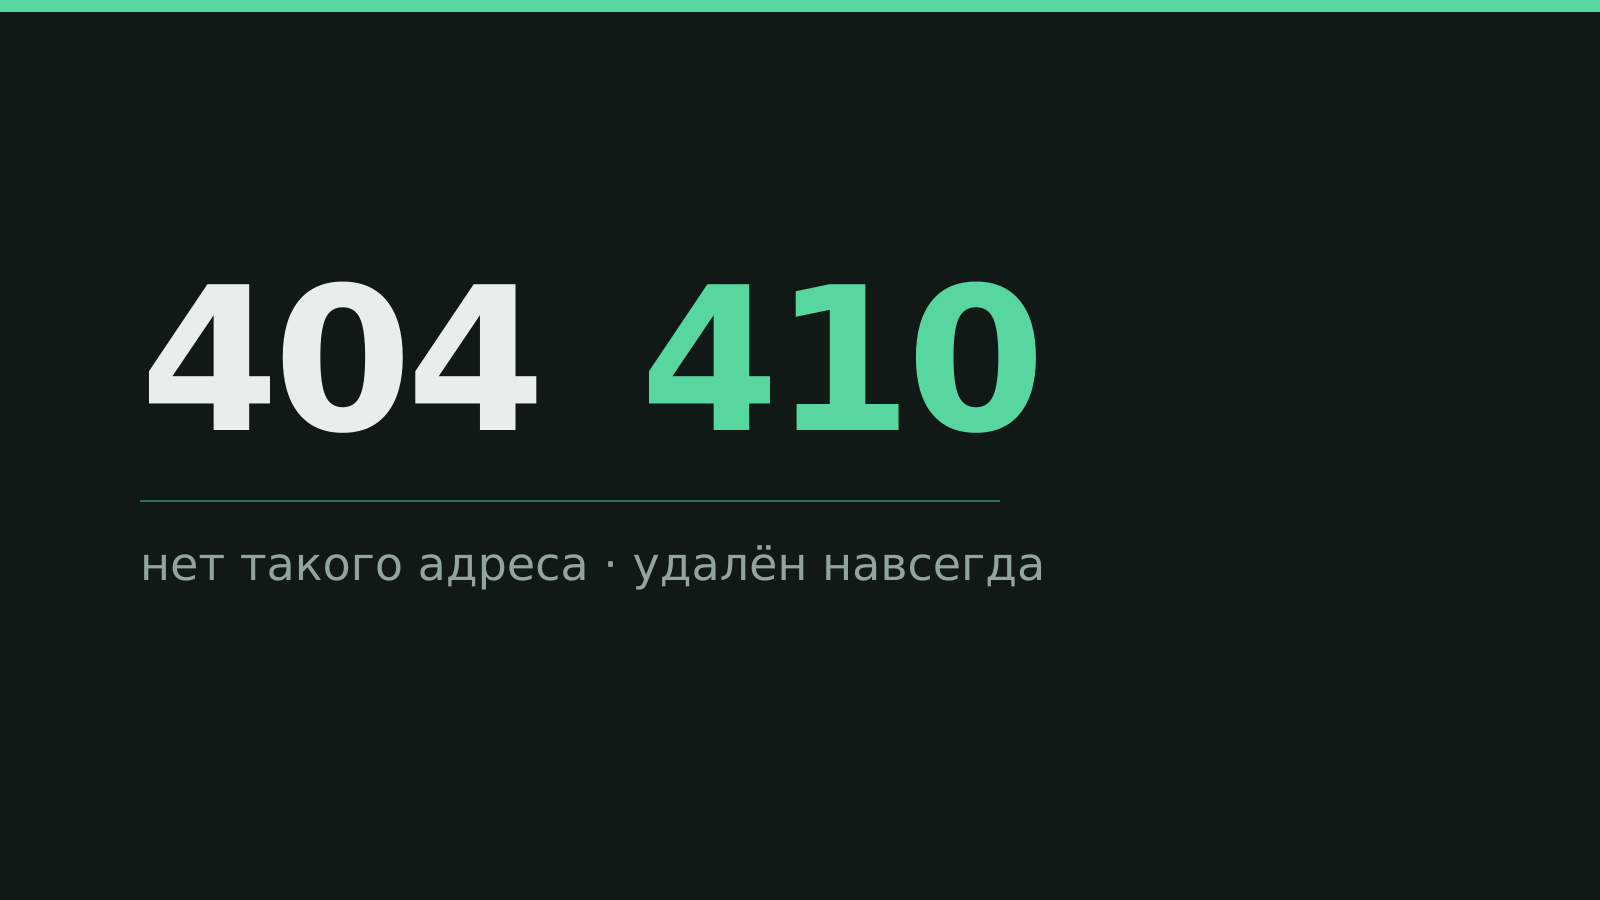
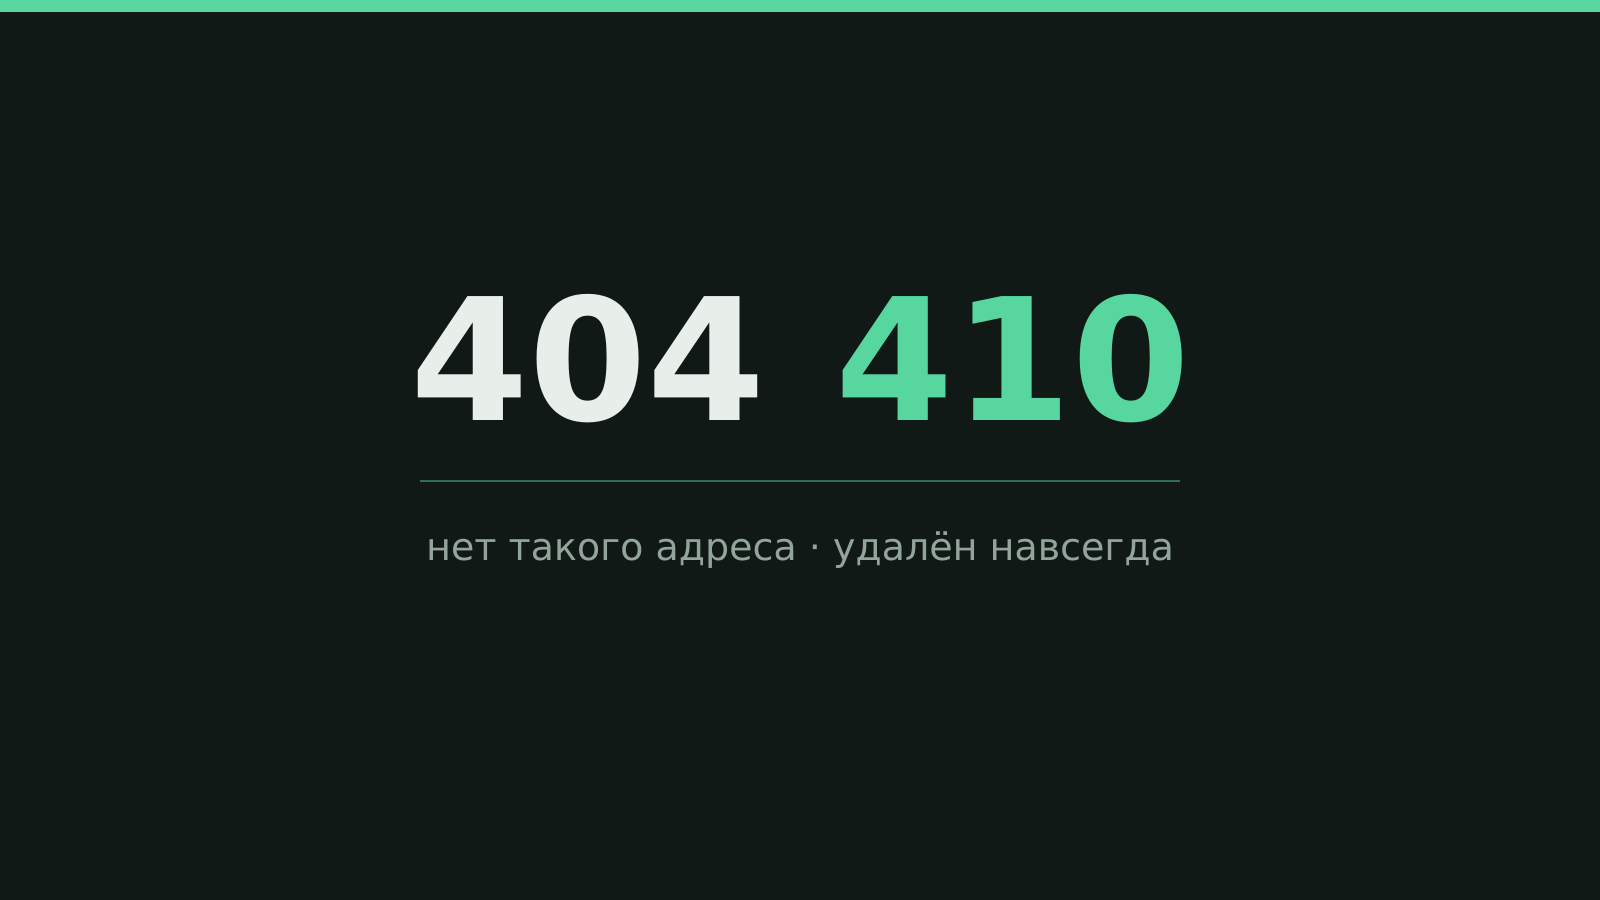
fix(content): кадры обложки — по центру, ключевое — в безопасной зоне
Детектор заметности (attention sharp) резал надписи демо-обложек в
кадре 1:1. Фокус задаёт автор (норма базы, ai-media 06/03 §3.1):
кадры режутся по центру, а ключевое мастера — в безопасной зоне,
общей для всех кадров: центральный квадрат 900×900 без полос по 30 px
сверху и снизу (rule content-invariants, /content). Демо-обложки
перерисованы по зоне — превью, 16:9, 4:3 и 1:1 у всех трёх целые.

diff --git a/src/pages/_blog/images.ts b/src/pages/_blog/images.ts
@@ -7,9 +7,9 @@ import type { OgImage } from '@/shared/seo'
 // берут и on-demand маршруты — их серверный бандл конвейер нёс бы зря (преобразований на запросе нет).
 // Картинки для превью ссылок и выдачи — кадры мастера записи в JPEG: его читает любая соцсеть,
 // мессенджер и поисковик. Превью — размера карточки сайта (1200×630), кадры разметки статьи —
-// пропорции, которые просит выдача Google (16:9, 4:3, 1:1). Кадр — обрезка без растяжения (мастер
-// обложки 1600×900 крупнее каждого) по самой заметной области мастера (`attention` sharp), а не по
-// центру: узкий кадр берёт предмет, а не середину картинки.
+// пропорции, которые просит выдача Google (16:9, 4:3, 1:1). Кадр — обрезка по центру без растяжения
+// (мастер обложки 1600×900 крупнее каждого): каждый кадр берёт безопасную зону мастера, где автор держит
+// ключевое (rule content-invariants). Фокус задаёт автор, а не детектор заметности: тот режет надписи.
 const ARTICLE_FRAMES = [
   { width: 1200, height: 675 },
   { width: 1200, height: 900 },
@@ -22,7 +22,6 @@ async function frame(master: ImageMetadata, width: number, height: number) {
     width,
     height,
     fit: 'cover',
-    position: 'attention',
     format: 'jpg',
   })
   return { path: src, width, height }

diff --git a/src/pages/_blog/images.server.test.ts b/src/pages/_blog/images.server.test.ts
@@ -24,6 +24,13 @@ describe('картинки превью и разметки', () => {
     })
   })
 
+  // Безопасная зона мастера — его центр: кадр выбирает не детектор заметности, а правило автора.
+  it('каждый кадр — по центру мастера', async () => {
+    const paths = [(await ogImageOf(master, 'Обложка')).path]
+    for (const { path } of await articleImagesOf(master)) paths.push(path)
+    for (const path of paths) expect(requestOf(path)).not.toHaveProperty('position')
+  })
+
   it('кадры разметки статьи — 16:9, 4:3 и 1:1 из того же мастера, JPEG, без растяжения', async () => {
     const frames = await articleImagesOf(master)
     expect(frames.map(({ width, height }) => width / height)).toEqual([16 / 9, 4 / 3, 1])

diff --git a/.claude/plans/adopt-design-system.md b/.claude/plans/adopt-design-system.md
@@ -221,15 +221,16 @@ blocked-by: —
   strategy). LCP первого экрана — не ролик (SG-PERF-16). Стили картинок Astro сняты: картинку ведут стили Tailwind,
   миниатюре — `densities={[2]}`; их возврат краснит тест карточки и бюджет CSS.
 - Обложки (S11): мастер 1600×900, фото — JPEG, плоская графика — PNG (демо); фолбэк `<Picture>` — WebP, AVIF —
-  источником. `seo:check` различает законное по файлам (N5): источник `media` без размеров — ошибка, только когда
-  пропорция его файла не та, что у `<img>` (вариант тёмной темы законен); фолбэк — ошибка, только PNG-производная
-  мастера (файл как есть, плоская схема, — выбор автора); ролик по кнопке — `preload` `none` или `metadata`. Превью и кадры разметки — `getImage` в JPEG с обрезкой по `attention` sharp (по центру квадрат резал
-  надписи; облик кадра машина не держит); превью — размера `OG_DEFAULT_IMAGE`. `seo:check` читает файлы sharp: превью
-  — `OG_IMAGE` политики (норма базы), кадры — мастер превью по имени производной Astro и пропорции. `sizes` —
-  `SLOT_SIZES` контейнера литералами ролей (`var()` в `sizes` не читается), их сверяет тест контейнера. Конвейер
-  картинок (`getImage`, обёртка sharp) серверному бандлу не нужен (N3): кадры — модуль сборки `pages/_blog/images.ts`
-  вне барреля `shared/seo`, `<Font>` — файлом `astro/components/Font.astro` (модуль `astro:assets` тянет конвейер,
-  оболочку рендерят on-demand страницы); `dist/server` 927 → 840 кБ, бюджет size-limit 925 кБ без сжатия.
+  источником; `sizes` — `SLOT_SIZES` контейнера литералами ролей (`var()` в `sizes` не читается). Превью
+  (`OG_DEFAULT_IMAGE`) и кадры разметки — `getImage` в JPEG с обрезкой по центру: ключевое — в безопасной зоне мастера
+  (центральный квадрат 900×900 без полос по 30 px; rule `content-invariants`, `/content`), фокус задаёт автор, а не
+  детектор заметности (норма базы 06/03 §3.1); демо-обложки — по зоне (N6, кадры до и после — `M/p4d/fix/shots/`).
+  `seo:check` читает файлы sharp: превью — `OG_IMAGE` политики, кадры — мастер превью по имени производной Astro и
+  пропорции; источник `media` без размеров — ошибка, только когда пропорция его файла не та, что у `<img>`; фолбэк —
+  ошибка, только PNG-производная мастера; ролик по кнопке — `preload` `none` или `metadata` (N5). Конвейер картинок
+  серверному бандлу не нужен (N3): кадры — модуль сборки `pages/_blog/images.ts`, `<Font>` — файлом
+  `astro/components/Font.astro` (модуль `astro:assets` тянет конвейер, а оболочку рендерят on-demand страницы);
+  `dist/server` 927 → 840 кБ, бюджет size-limit — 925 кБ без сжатия.
 - CSP одна по построению: политика глобальна, стили страниц — файлами, хеши `<Font>` Astro кладёт во все записи —
   у всех страниц один набор хешей и `font-src 'self'`; `docker/*` не правится. data:-адрес ресурса CSP не пропускает
   (в директивах загрузки только свой сайт): `seo:check` краснит любой — в атрибутах, `style` и CSS сборки (N2).
@@ -268,7 +269,8 @@ blocked-by: —
 N1–N11); замечания закрываются коммитами `fix(...)`, ход и пробы — `M/p4d/fix/` (`notes.md`). Закрыты: B1 — ролик
 петли один на все окна; N1 — «меньше» обрывает загрузку петли, петля ленивая; N2 — data:-адрес краснит `seo:check`;
 N3 — серверный бандл без конвейера картинок; N4, N7, N8 — `sizes` у источников `ArtPicture`, бюджет острова с обеих
-сторон, шрифт только WOFF2; N5 — `seo:check` пропускает законный сырой HTML.
+сторон, шрифт только WOFF2; N5 — `seo:check` пропускает законный сырой HTML; N6 — кадры обложки по центру, ключевое —
+в безопасной зоне мастера.
 Следующий шаг — остальные замечания, затем перепроверка валидатором D, затем этап E. Дальше:
 - S12. T-24: на новой странице в `pagereveal` — `event.viewTransition.ready`, затем `document.getAnimations()`: при
   `reduce` и `data-motion="reduced"` кадров перехода нет, иначе — группа `root` на 300 мс (проба —
